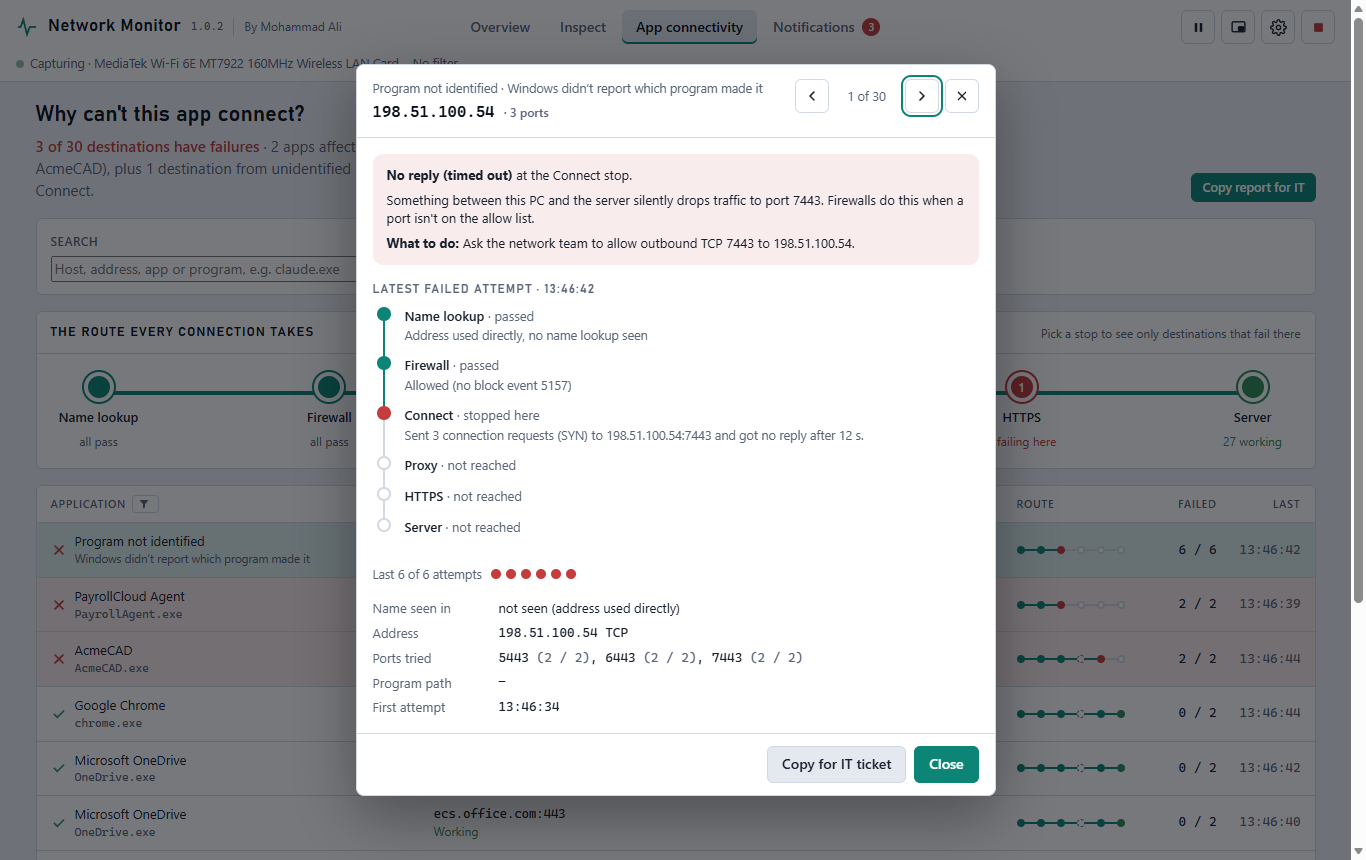
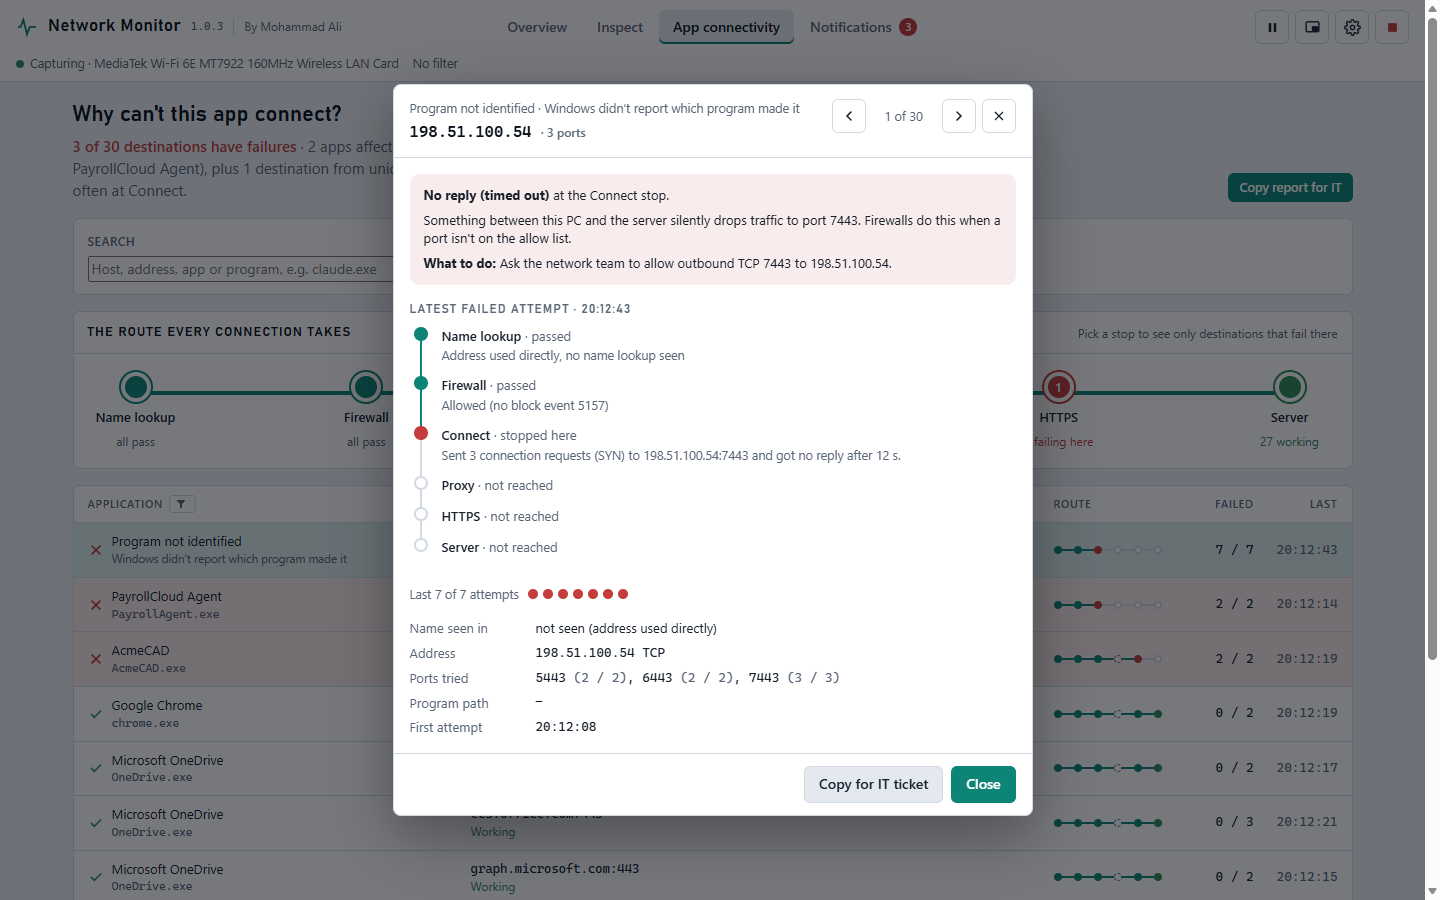
Network Monitor 1.0.3: README, screenshots and notices
New themes, a pop-up setting per notification type, security hardening,
and the stability and performance fixes found in testing.

diff --git a/README.md b/README.md
@@ -6,16 +6,16 @@ By Mohammad Ali.
 
 ## Download
 
-Get **NetworkMonitor-1.0.2-x64.msi** from the [Releases](../../releases) page and run it.
+Get **NetworkMonitor-1.0.3-x64.msi** from the [Releases](../../releases) page and run it. It replaces any earlier 1.0.x.
 
 - Windows 10 or 11, 64-bit.
 - Live capture needs the free [Npcap](https://npcap.com) driver. The installer offers to download it; saved `.pcap` / `.pcapng` files open without it.
 - The installer is not code-signed yet, so Windows SmartScreen may warn before it runs.
 
-SHA-256 of `NetworkMonitor-1.0.2-x64.msi`:
+SHA-256 of `NetworkMonitor-1.0.3-x64.msi`:
 
 ```
[2 lines of base64/hex data omitted]
 ```
 
 ## What it does
@@ -23,14 +23,42 @@ SHA-256 of `NetworkMonitor-1.0.2-x64.msi`:
 - **Overview:** live traffic chart, totals, and the busiest hosts (with country flag and network owner), services and programs.
 - **Inspect:** every connection, with filters for address, port, country, service, program and direction.
 - **App connectivity:** follows each connection through name lookup, Windows Firewall, connect, proxy and HTTPS, shows where it stops and what to do about it, and copies a report for IT.
-- **Notifications:** data thresholds, favourite hosts, an IP blacklist, app connection failures, optional webhook.
-- Pause and resume, thumbnail mode, English and Arabic (right-to-left), several themes including Ops Glass.
+- **Notifications:** data thresholds, favourite hosts, an IP blacklist, app connection failures, optional webhook. Each type can pop up or just be recorded.
+- Pause and resume, thumbnail mode, English and Arabic (right-to-left), 13 themes.
 
 All analysis happens on your PC. There is no telemetry and no account.
 
+## What's new in 1.0.3
+
+### New
+
+- **Five new themes:** Live Terminal, Framed Sheet, Quiet Ledger, Raw Packet and Home Helper, each with its own fonts and shapes.
+- **Pop-up per notification type:** choose for each type whether it pops up or is only recorded on the Notifications page.
+- **Security hardening:** exports can't be redirected through links or junctions, webhooks don't follow redirects, and input from the interface is size-checked.
+
+### Fixed
+
+1.0.3 was tested for long runs, heavy traffic, large and damaged capture files, network changes, sleep and administrator use. These problems were found and fixed:
+
+| Problem | Fixed in 1.0.3 |
+|---|---|
+| After many hours of capturing, the window could run out of memory and show a blank "page is having a problem" screen. | The window reloads itself within a second and keeps the running capture and your settings. Capturing never stops. A message says the view was reset. |
+| Memory kept growing during long sessions. | Connections idle for 30 minutes are removed from the lists. Their traffic stays in the totals. |
+| The interface slowed down as the number of connections grew. | Updates take about a quarter of the time they did on large sessions. |
+| Under very heavy traffic (tens of thousands of new connections a second), the display fell behind. | The display keeps up in real time and uses less memory. |
+| Updates could arrive late or bunched, and the chart was wrong after the PC slept. | Updates arrive every second without drift; sleep shows as a gap in the chart. |
+| A large IP blacklist could stop settings from saving, without telling you. | The blacklist is stored in its own file, and you're told if anything can't be saved. |
+| A failure storm could produce thousands of notifications a minute. | At most one pop-up per type every 5 seconds; the rest are combined into one ("12 more connection failures"). |
+| Exporting to a .pcap file grew one file without limit until the disk filled. | A new file is started every 500 MB, and the export stops with a message when less than 1 GB is free. |
+| A capture file cut off in the middle was replayed without warning. | You're told the file ends mid-packet and how many packets were read. |
+| Running as administrator left a temporary browser profile (up to 45 MB) behind. | It's deleted when the app closes. |
+| App connectivity: clicking the **Server** stop didn't filter the list. | It now shows the destinations that worked. |
+| App connectivity: large counts overflowed the route circles. | Counts are shortened (20k, 1.4M), with the full number on hover. |
+| App connectivity: the summary listed every affected app and became hard to read. | It names the top 3 apps and "and N more". |
+
 ## Screenshots
 
-Version 1.0.2 running on sample traffic.
+Version 1.0.3 running on sample traffic.
 
 **Overview:** traffic chart, totals, top hosts, services and programs.
 
@@ -56,9 +84,17 @@ Version 1.0.2 running on sample traffic.
 
 ![Destination details](docs/screenshots/app-connectivity-details.png)
 
-**Settings → Appearance:** themes, custom palette and interface scale.
+**Settings → Appearance:** 13 themes, custom palette and interface scale.
 
 ![Settings, Appearance](docs/screenshots/settings-appearance.png)
+
+**Live Terminal theme**
+
+![Live Terminal theme](docs/screenshots/theme-live-terminal.png)
+
+**Home Helper theme**
+
+![Home Helper theme](docs/screenshots/theme-home-helper.png)
 
 **Ops Glass theme**
 
@@ -67,10 +103,6 @@ Version 1.0.2 running on sample traffic.
 **Arabic:** the interface in Arabic, laid out right to left.
 
 ![Arabic interface](docs/screenshots/arabic.png)
-
-## 1.0.2 (test build)
-
-Settings as a full page · English and Arabic · country flags and built-in location data (DB-IP Lite) · programs grouped by file path · "Not linked to a program" and "Unrecognised ports" breakdowns · App connectivity paging, search, details pop-up and per-server grouping · pause and resume · busiest adapters listed first · Ops Glass theme · security fixes.
 
 ## Licence
 
